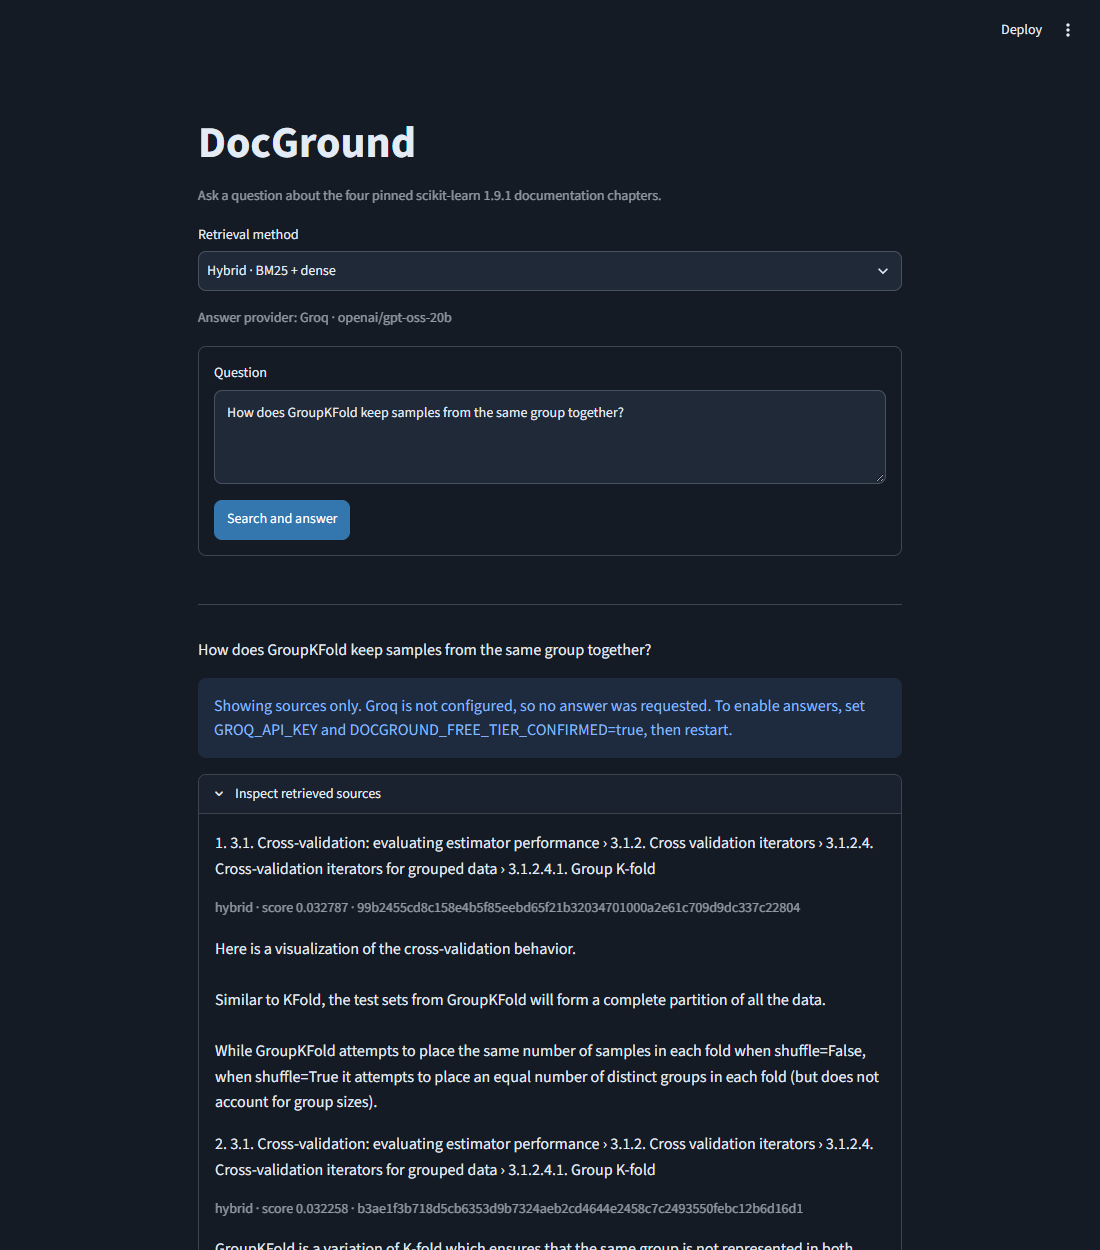
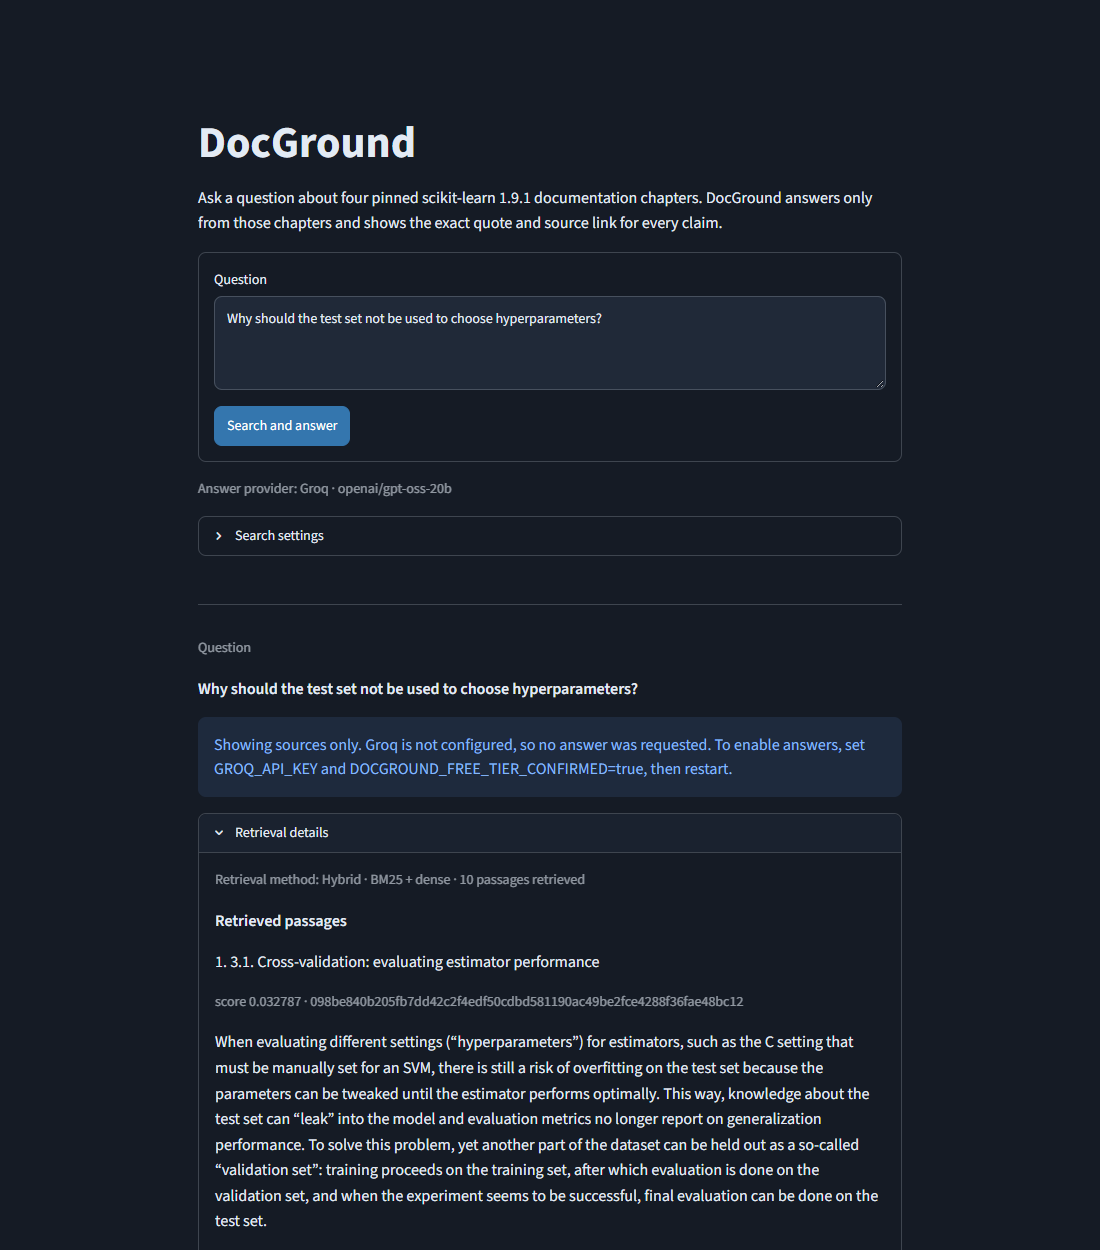
Show each claim with its exact quote and source link
Make the Streamlit answer readable in one pass: each claim is shown in
its own card with the exact quote, a readable source section, and an
"Open source passage" link directly beneath it. Quotes render as plain
text, so literal characters, line breaks and code indentation appear
exactly as cited.

- State once per answer that each quote was found at its cited location
  and that whether the quote supports the claim has not been reviewed.
- Give insufficient and conflicting evidence their own headings, the
  model's explanation, and guidance on what to try next.
- Move retrieval scores, chunk IDs, fields and character offsets into a
  "Retrieval details" expander, and the retrieval method into "Search
  settings". Sources stay available in every state.
- Escape claim text and labels so model output is shown literally.
- Hide the developer toolbar and refresh the keyless README screenshot.

Retrieval, generation, citation validation, the corpus, and the
evaluation data and reports are unchanged. Tests cover the new layout,
the abstention states, literal rendering, and quotes containing an HTML
entity and indented code.

Changed region(s): [[0.1855, 0.4992, 0.8036, 1.0], [0.1855, 0.156, 0.8036, 0.4368], [0.9273, 0.0, 0.9582, 0.0312]]

diff --git a/tests/test_app.py b/tests/test_app.py
@@ -1,15 +1,44 @@
 from pathlib import Path
 from hashlib import sha256
 import json
+import re
 import httpx2
 import pytest
 import streamlit as st
 from streamlit.testing.v1 import AppTest
+from streamlit.testing.v1.element_tree import Expander, Text
 from src.corpus import build_corpus
 from src import groq
 from src.generation import ContentBlocked, GenerationError, ResponseTruncated, SYSTEM
 
 APP = Path(__file__).resolve().parents[1] / "app.py"
+SUPPORT_NOTICE = ("Each quote was found at its cited location in the documentation. Whether the quote "
+                  "supports the claim has not been reviewed, so read the quote before relying on the claim.")
+
+
+def shown(node):
+    """Visible text under ``node``: Markdown with its escapes removed, plain text and captions."""
+    values = ([item.value for item in node.markdown] + [item.value for item in node.text]
+              + [item.value for item in node.caption])
+    return [re.sub(r"\\(.)", r"\1", value) for value in values]
+
+
+def outside_expanders(node):
+    """Elements visible without opening an expander."""
+    for child in getattr(node, "children", {}).values():
+        if not isinstance(child, Expander):
+            yield child
+            yield from outside_expanders(child)
+
+
+def visible_plain_text(at):
+    """Plain-text elements (st.text) outside every expander, in page order."""
+    return [node.value for node in outside_expanders(at.main) if isinstance(node, Text)]
+
+
+def details(at):
+    panel, = [panel for panel in at.expander if panel.label == "Retrieval details"]
+    return panel
 
 
 def test_empty_submission_and_retrieval_failure_are_safe(monkeypatch, tmp_path):
@@ -25,10 +54,15 @@ def test_empty_submission_and_retrieval_failure_are_safe(monkeypatch, tmp_path):
 
 @pytest.fixture
 def evidence_app(tmp_path, monkeypatch):
+    return fixture_app(tmp_path, monkeypatch, "<p>Use a pipeline for the workflow.</p>")
+
+
+def fixture_app(tmp_path, monkeypatch, body):
+    """The app over a one-page corpus built from ``body`` with the real ingestion, using BM25."""
     st.cache_resource.clear()
     url = "https://scikit-learn.org/1.9/guide.html"
     html = (f'<title>Fixture — scikit-learn 1.9.1 documentation</title><link rel="canonical" href="{url}">'
-            '<article><h1 id="guide">Guide</h1><p>Use a pipeline for the workflow.</p></article>').encode()
+            f'<article><h1 id="guide">Guide</h1>{body}</article>').encode()
     (tmp_path / "guide.html").write_bytes(html)
     manifest = {"manifest_schema_version": 1, "corpus_version": "test", "documentation_version": "1.9.1",
                 "attribution": {"project": "scikit-learn", "copyright": "The scikit-learn developers",
@@ -78,7 +112,8 @@ def test_generation_outcomes_render_separately(evidence_app, monkeypatch, outcom
     assert not at.exception and at.expander
     assert message in getattr(at, level)[0].value
     assert not getattr(at, "info" if level == "error" else "error")
-    assert not any(item.value == "invented" for item in at.text)
+    assert not any("invented" in value for value in shown(at))
+    assert not at.get("link_button") and SUPPORT_NOTICE not in [item.value for item in at.warning]
 
 
 def test_unexpected_generation_failure_is_not_reported_as_a_search_failure(evidence_app, monkeypatch):
@@ -129,20 +164,77 @@ def test_answer_shows_verified_citation_and_marks_claim_support_unreviewed(evide
     at.text_area[0].input("What is a pipeline?")
     at.button[0].click().run()
     assert not at.exception and not at.error and not at.info
-    assert "Quote locations verified. Claim support has not been reviewed." in at.warning[0].value
-    assert any(item.value == "A pipeline is recommended." for item in at.text)
-    assert len(at.get("link_button")) == 1
-    # The claim comes first, outside the source control that holds its quote, link and technical details.
-    source, retrieved = at.expander
-    assert (source.label, retrieved.label) == ("Show source", "Inspect retrieved sources")
-    assert [item.value for item in source.text] == ["Use a pipeline for the workflow."]
-    assert len(source.get("link_button")) == 1 and source.get("link_button")[0].proto.url.startswith("https://")
-    details = source.caption[-1].value
-    assert all(part in details for part in ("guide", "/blocks/0/text", "chars "))
-    order = [getattr(node, "value", None) or getattr(node, "label", None) for node in at.main]
-    positions = [order.index(value) for value in ("A pipeline is recommended.", "Show source", at.warning[0].value,
-                                                  "Inspect retrieved sources")]
+    # Quote location and claim support stay distinct: the location is verified, the support is not reviewed.
+    assert [item.value for item in at.warning] == [SUPPORT_NOTICE]
+    visible = list(outside_expanders(at.main))
+    visible_text = [re.sub(r"\\(.)", r"\1", node.value) for node in visible
+                    if isinstance(getattr(node, "value", None), str)]
+    assert "A pipeline is recommended." in visible_text
+    assert "Exact quote · location verified" in visible_text
+    assert "Source: Guide" in visible_text
+    # The quote is plain text, outside any expander, exactly as cited.
+    assert visible_plain_text(at) == ["Use a pipeline for the workflow."]
+    link, = at.get("link_button")
+    assert link in visible and link.proto.label == "Open source passage" and link.proto.url.startswith("https://")
+    # Read in order: the notice, the claim, then its quote, source and link, then the expandable details.
+    def name(node):
+        if getattr(node, "type", None) == "link_button":
+            return "link"
+        value = getattr(node, "value", None) or getattr(node, "label", None)
+        return re.sub(r"\\(.)", r"\1", value) if isinstance(value, str) else None
+
+    order = [name(node) for node in at.main]
+    positions = [order.index(value) for value in (
+        "Answer", SUPPORT_NOTICE, "A pipeline is recommended.", "Use a pipeline for the workflow.",
+        "Source: Guide", "link", "Retrieval details")]
     assert positions == sorted(positions)
+    # Retrieval scores and chunk metadata appear only inside the details expander.
+    assert not any(re.search(r"\bscore \d|chars \d|/blocks/", text) for text in visible_text)
+    panel_text = " ".join(shown(details(at)))
+    assert all(part in panel_text for part in ("guide", "/blocks/0/text", "chars ", "score ", "included in answer context"))
+
+
+def test_insufficient_evidence_is_a_distinct_state_with_sources_available(evidence_app, monkeypatch):
+    monkeypatch.setattr("src.gemini.Gemini.generate",
+                        lambda self, contents: (json.dumps({"status": "insufficient", "claims": []}), {}))
+    at = evidence_app
+    at.text_area[0].input("How do I train a neural network on a GPU?")
+    at.button[0].click().run()
+    assert not at.exception and not at.error and not at.get("link_button")
+    assert [item.value for item in at.subheader] == ["Not enough evidence to answer"]
+    assert "The model reported insufficient evidence for an answer." in at.info[0].value
+    assert any("answers only from the four pinned scikit-learn 1.9.1 chapters" in item.value for item in at.caption)
+    assert SUPPORT_NOTICE not in [item.value for item in at.warning]
+    assert "Use a pipeline for the workflow." in " ".join(shown(details(at)))
+
+
+def test_conflicting_evidence_has_its_own_heading(evidence_app, monkeypatch):
+    monkeypatch.setattr("src.gemini.Gemini.generate",
+                        lambda self, contents: (json.dumps({"status": "conflicting", "claims": []}), {}))
+    at = evidence_app
+    at.text_area[0].input("What is a pipeline?")
+    at.button[0].click().run()
+    assert [item.value for item in at.subheader] == ["The evidence conflicts"] and not at.get("link_button")
+
+
+def test_inference_claims_are_labelled_and_model_text_is_shown_literally(evidence_app, monkeypatch):
+    claim_text = "Pipelines **help** [click](https://attacker.example) :red[always]"
+
+    def generate(self, contents):
+        source, = json.loads(contents)["evidence"]
+        return json.dumps({"status": "answered", "claims": [{"text": claim_text, "kind": "inference", "citations": [
+            {"chunk_id": source["chunk_id"], "document_id": source["document_id"],
+             "quote": "Use a pipeline for the workflow."}]}]}), {}
+
+    monkeypatch.setattr("src.gemini.Gemini.generate", generate)
+    at = evidence_app
+    at.text_area[0].input("What is a pipeline?")
+    at.button[0].click().run()
+    assert not at.exception
+    assert any(item.value.startswith("Inference:") for item in at.caption)
+    rendered = [item.value for item in at.markdown if "Pipelines" in item.value]
+    assert rendered == [r"Pipelines \*\*help\*\* \[click\]\(https\://attacker\.example\) \:red\[always\]"]
+    assert claim_text in shown(at)
 
 
 QUOTE = "Use a pipeline for the workflow."
@@ -183,7 +275,7 @@ def submit(at, question="What is a pipeline?"):
 
 
 def sources_visible(at):
-    panels = [panel for panel in at.expander if panel.label == "Inspect retrieved sources"]
+    panels = [panel for panel in at.expander if panel.label == "Retrieval details"]
     return panels and any(QUOTE in item.value for item in panels[0].text)
 
 
@@ -201,7 +293,7 @@ def test_groq_form_submission_sends_one_request_and_shows_a_verified_answer(evid
     assert body == groq.request_body(body["messages"][1]["content"]) and body["messages"][0]["content"] == SYSTEM
     assert json.loads(body["messages"][1]["content"])["question"] == "What is a pipeline?"
     assert not at.exception and not at.error and sources_visible(at)
-    assert any(item.value == "A pipeline is recommended." for item in at.text) and len(at.get("link_button")) == 1
+    assert "A pipeline is recommended." in shown(at) and len(at.get("link_button")) == 1
     # A page rerun shows the stored turn. Only another submission sends another request, without waiting.
     at.run()
     assert len(groq_http["requests"]) == 1
@@ -228,7 +320,7 @@ def test_groq_form_failures_send_one_request_and_keep_sources_visible(evidence_a
     at = submit(evidence_app)
     assert len(groq_http["requests"]) == 1 and not at.exception
     assert message in at.error[0].value and SECRET not in at.error[0].value and not at.info and not at.warning
-    assert sources_visible(at) and not any(item.value == "A pipeline is recommended." for item in at.text)
+    assert sources_visible(at) and "A pipeline is recommended." not in shown(at)
 
 
 def test_groq_submission_without_evidence_sends_no_request(evidence_app, groq_http):
@@ -265,7 +357,7 @@ def test_selected_provider_is_shown_before_any_submission_without_a_request(
     assert groq_http["requests"] == [] and not at.exception and not at.error
 
 
-def test_several_citations_share_one_source_control(evidence_app, groq_http):
+def test_several_citations_appear_under_their_claim(evidence_app, groq_http):
     def two(request):
         body = json.loads(grounded(request).content)
         answer = json.loads(body["choices"][0]["message"]["content"])
@@ -276,9 +368,35 @@ def test_several_citations_share_one_source_control(evidence_app, groq_http):
 
     groq_http["reply"] = two
     at = submit(evidence_app)
-    panel, _ = at.expander
-    assert panel.label == "Show 2 sources" and len(panel.get("link_button")) == 2 and not at.exception
-    assert [item.value for item in panel.text] == [QUOTE, "for the workflow."]
+    assert not at.exception and len(at.get("link_button")) == 2
+    # Quotes and links sit under the claim; the only expanders are settings and retrieval details.
+    assert [panel.label for panel in at.expander] == ["Search settings", "Retrieval details"]
+    captions = [item.value for item in at.caption]
+    assert "Exact quote 1 of 2 · location verified" in captions and "Exact quote 2 of 2 · location verified" in captions
+    assert visible_plain_text(at) == [QUOTE, "for the workflow."]
+
+
+def test_quotes_keep_literal_characters_line_breaks_and_code_indentation(tmp_path, monkeypatch):
+    entity = "Escape an ampersand as &amp; in HTML, and write *args literally."
+    code = "def scale(X):\n    mean = X.mean(axis=0)\n    return X - mean"
+    at = fixture_app(tmp_path, monkeypatch, "<p>Escape an ampersand as &amp;amp; in HTML, and write *args "
+                     f"literally.</p><pre>{code}\n</pre>")
+
+    def generate(self, contents):
+        evidence = json.loads(contents)["evidence"]
+        cite = lambda quote: next({"chunk_id": s["chunk_id"], "document_id": s["document_id"], "quote": quote}
+                                  for s in evidence if quote in s["text"])
+        return json.dumps({"status": "answered", "claims": [
+            {"text": "HTML escapes an ampersand.", "kind": "explicit", "citations": [cite(entity)]},
+            {"text": "The example centers the data.", "kind": "explicit", "citations": [cite(code)]}]}), {}
+
+    monkeypatch.setattr("src.gemini.Gemini.generate", generate)
+    at.text_area[0].input("How do I escape an ampersand and center data?")
+    at.button[0].click().run()
+    assert not at.exception and not at.error
+    # Exactly as cited: the entity is not decoded, Markdown is not applied, line breaks and indentation stay.
+    assert visible_plain_text(at) == [entity, code]
+    assert not any("&amp;" in item.value or "    mean" in item.value for item in at.markdown)
 
 
 def test_unknown_provider_sends_no_request_and_keeps_sources_visible(evidence_app, groq_http, monkeypatch):

diff --git a/app.py b/app.py
@@ -1,6 +1,7 @@
 """Streamlit interface to the pinned DocGround application."""
 import logging
 import os
+import re
 
 import dotenv
 import streamlit as st
@@ -28,17 +29,36 @@ def provider_label():
     return f"{PROVIDERS[PROVIDER][0]} · {generation_provider().model}"
 
 
+METHOD_LABELS = {"hybrid": "Hybrid · BM25 + dense", "bm25": "BM25", "dense": "Dense · MiniLM",
+                 "reranked": "Hybrid + cross-encoder"}
+SUPPORT_NOTICE = ("Each quote was found at its cited location in the documentation. Whether the quote "
+                  "supports the claim has not been reviewed, so read the quote before relying on the claim.")
+ABSTENTION_TITLES = {"insufficient": "Not enough evidence to answer", "conflicting": "The evidence conflicts"}
+ABSTENTION_HELP = ("DocGround answers only from the four pinned scikit-learn 1.9.1 chapters. Try a narrower "
+                   "question, or review the retrieved passages in Retrieval details.")
+
+
+def literal(text: str) -> str:
+    """Show model and user text literally: no Markdown links, emphasis, HTML or color directives."""
+    return re.sub(r"([\\`*_{}\[\]()#+\-.!|<>~:$])", r"\\\1", text)
+
+
+def section_label(hit: dict | None) -> str:
+    return " › ".join(hit["heading_path"]) if hit and hit.get("heading_path") else "Cited documentation passage"
+
+
 st.set_page_config(page_title="DocGround · Documentation search", layout="centered")
 st.title("DocGround")
-st.caption("Ask a question about the four pinned scikit-learn 1.9.1 documentation chapters.")
+st.markdown("Ask a question about four pinned scikit-learn 1.9.1 documentation chapters. DocGround answers "
+            "only from those chapters and shows the exact quote and source link for every claim.")
 load_search = st.cache_resource(retriever, max_entries=1, show_spinner=False)
-method = st.selectbox("Retrieval method", METHODS, format_func={
-    "hybrid": "Hybrid · BM25 + dense", "bm25": "BM25", "dense": "Dense · MiniLM",
-    "reranked": "Hybrid + cross-encoder"}.__getitem__)
-st.caption("Answer provider: " + provider_label())
 with st.form("ask"):
-    question = st.text_area("Question", max_chars=2000)
+    question = st.text_area("Question", max_chars=2000,
+                            placeholder="For example: Why should the test set not be used to choose hyperparameters?")
     submitted = st.form_submit_button("Search and answer", type="primary")
+st.caption("Answer provider: " + provider_label())
+with st.expander("Search settings"):
+    method = st.selectbox("Retrieval method", METHODS, format_func=METHOD_LABELS.__getitem__)
 
 if submitted:
     try:
@@ -70,35 +90,52 @@ if submitted:
 
 for turn_index, turn in enumerate(reversed(st.session_state.get("history", []))):
     st.divider()
-    st.text(turn["question"])
+    st.caption("Question")
+    st.markdown(f"**{literal(turn['question'])}**")
+    hits_by_id = {hit["id"]: hit for hit in turn["hits"]}
+    result = turn.get("result")
     if "error" in turn:
         st.error(turn["error"])
     elif "notice" in turn:
         st.info(turn["notice"])
-    else:
-        result = turn["result"]
-        if result["status"] != "answered":
+    elif result["status"] != "answered":
+        with st.container(border=True):
+            st.subheader(ABSTENTION_TITLES.get(result["status"], "No answer"), anchor=False)
             st.info(result["explanation"])
+            st.caption(ABSTENTION_HELP)
+    else:
+        count = len(result["claims"])
+        st.subheader("Answer" if count == 1 else f"Answer · {count} claims", anchor=False)
+        st.warning(SUPPORT_NOTICE)
         for claim_index, claim in enumerate(result["claims"]):
-            st.text(("Inference · " if claim["kind"] == "inference" else "") + claim["text"])
-            count = len(claim["citations"])
-            with st.expander("Show source" if count == 1 else f"Show {count} sources"):
+            with st.container(border=True):
+                if claim["kind"] == "inference":
+                    st.caption("Inference: deduced from the quoted evidence, not stated directly")
+                st.markdown(literal(claim["text"]))
                 for cite_index, citation in enumerate(claim["citations"]):
-                    st.caption("Exact quote")
+                    st.caption("Exact quote · location verified" if len(claim["citations"]) == 1
+                               else f"Exact quote {cite_index + 1} of {len(claim['citations'])} · location verified")
+                    # Plain text: characters, line breaks and code indentation appear exactly as quoted.
                     st.text(citation["quote"])
-                    st.link_button("Open cited passage", citation["url"],
+                    st.caption("Source: " + literal(section_label(hits_by_id.get(citation["chunk_id"]))))
+                    st.link_button("Open source passage", citation["url"],
                                    key=f"cite-{turn_index}-{claim_index}-{cite_index}")
-                    st.caption(f'{citation["manifest_id"]} · {citation["field"]} · {citation["chunk_id"]} · '
-                               f'chars {citation["start"]}–{citation["end"]}')
-        if result["status"] == "answered":
-            st.warning("Quote locations verified. Claim support has not been reviewed.")
-        if any(row["reason"] == "byte_budget" for row in result["context_selection"]["dropped"]):
-            st.caption("Some retrieved chunks exceeded the evidence budget and were excluded.")
-    if turn["hits"]:
-        with st.expander("Inspect retrieved sources", expanded="notice" in turn):
+    if turn["hits"] or result:
+        with st.expander("Retrieval details", expanded="notice" in turn):
+            st.caption(f'Retrieval method: {METHOD_LABELS.get(turn["method"], turn["method"])} · '
+                       f'{len(turn["hits"])} passages retrieved')
+            if result and any(row["reason"] == "byte_budget" for row in result["context_selection"]["dropped"]):
+                st.caption("Some retrieved passages exceeded the evidence budget and were not sent to the model.")
+            if result and result["status"] == "answered":
+                st.markdown("**Citation locations**")
+                for claim_index, claim in enumerate(result["claims"], 1):
+                    for citation in claim["citations"]:
+                        st.caption(f'Claim {claim_index} · {citation["manifest_id"]} · {citation["field"]} · '
+                                   f'{citation["chunk_id"]} · chars {citation["start"]}–{citation["end"]}')
+            if turn["hits"]:
+                st.markdown("**Retrieved passages**")
             for rank, hit in enumerate(turn["hits"], 1):
-                st.text(f'{rank}. {" › ".join(hit["heading_path"])}')
-                st.caption(f'{turn["method"]} · score {hit["score"]:.5g} · {hit["id"]}')
+                used = bool(result) and hit["id"] in result["context_ids"]
+                st.markdown(f"{rank}\\. {literal(section_label(hit))}")
+                st.caption(f'score {hit["score"]:.5g} · {hit["id"]}' + (" · included in answer context" if used else ""))
                 st.text(hit["text"])
-                if "result" in turn and hit["id"] in turn["result"]["context_ids"]:
-                    st.caption("Included in answer context")
